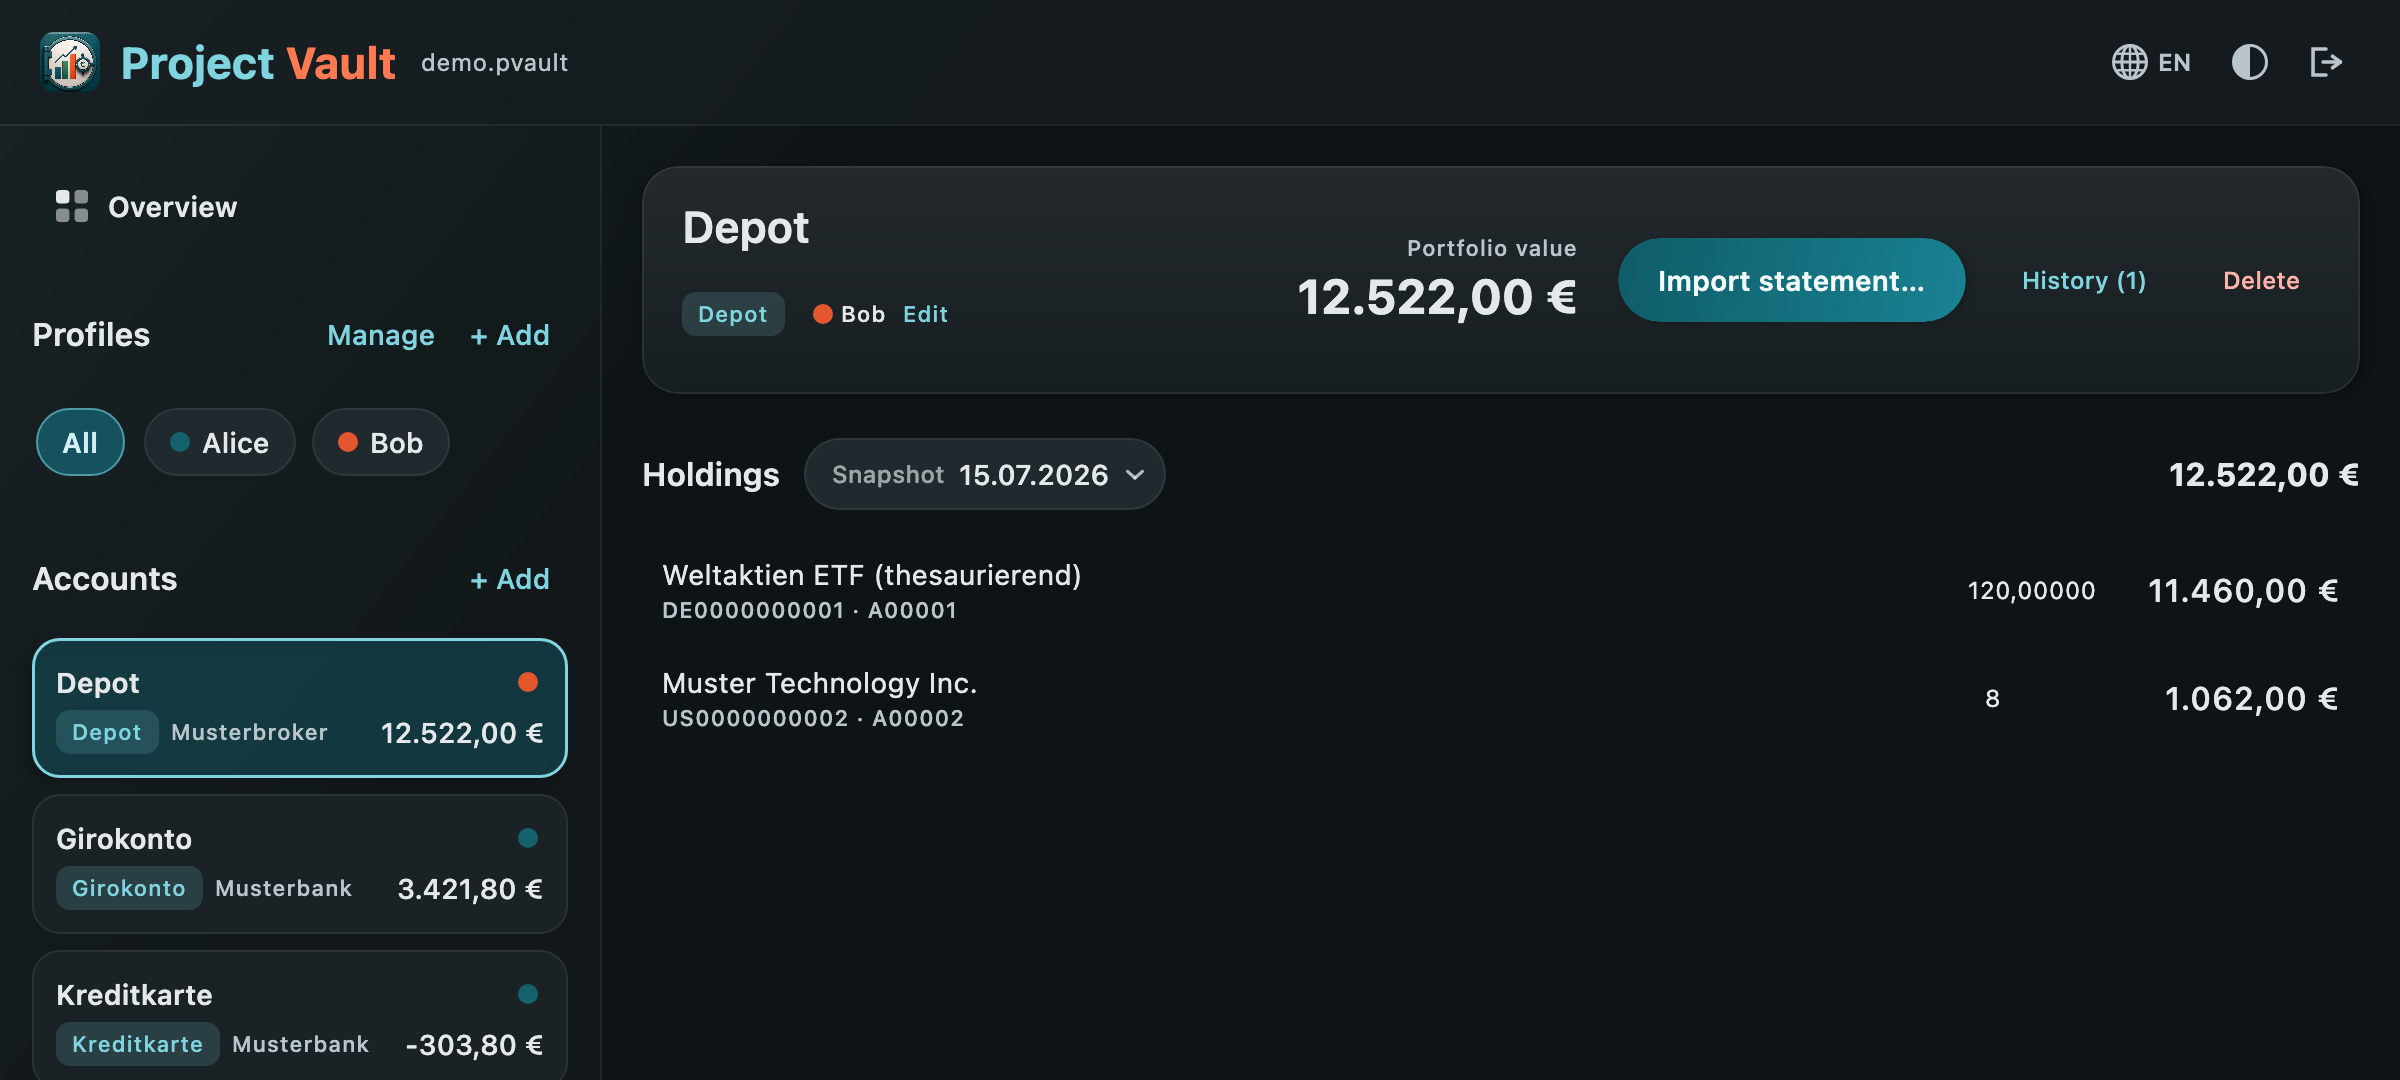
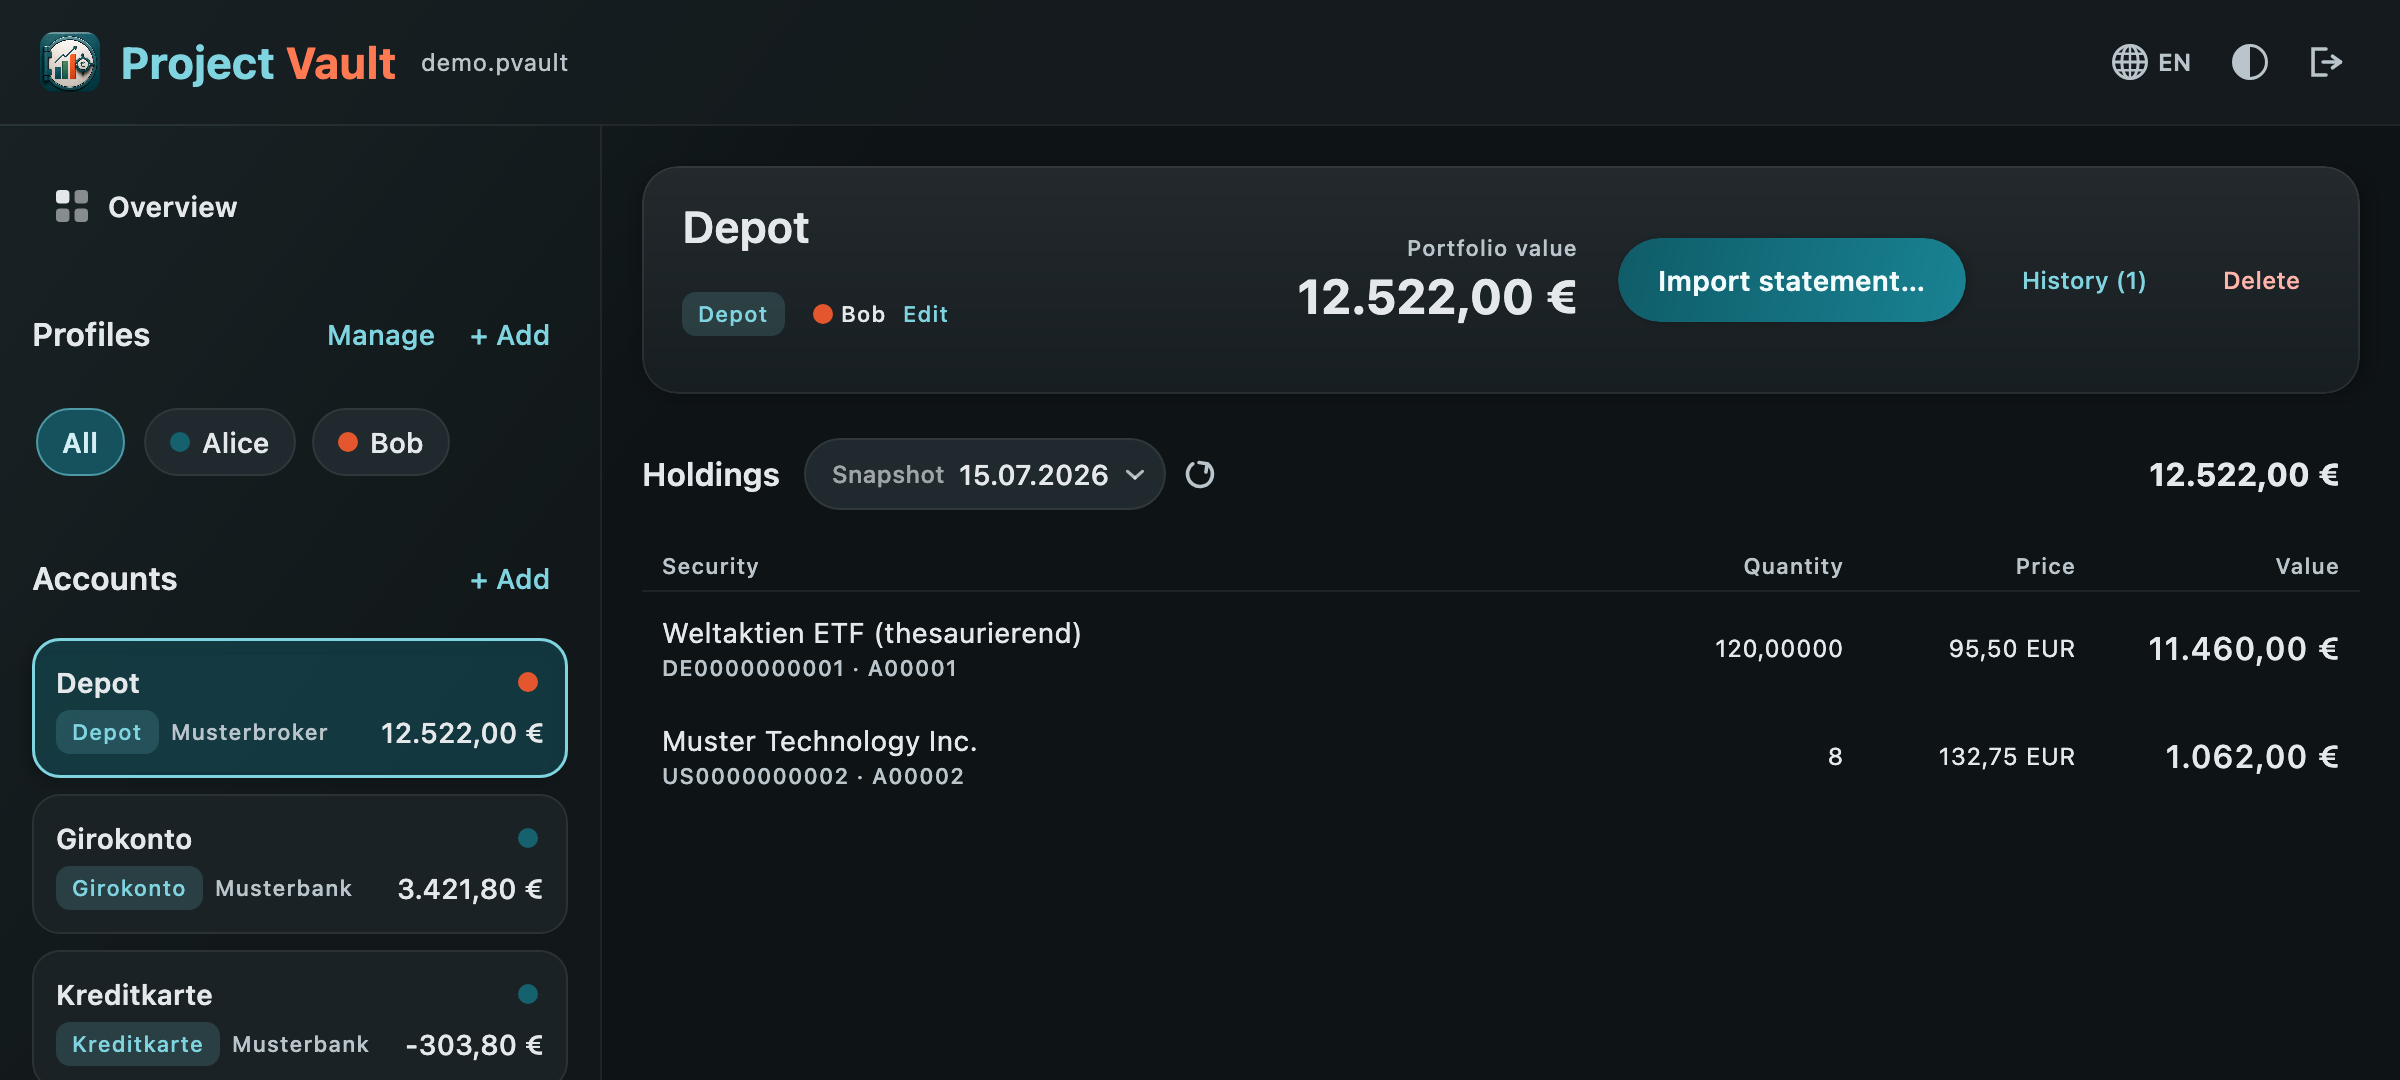
Update project vault webpage

diff --git a/_projects/project-vault.md b/_projects/project-vault.md
@@ -10,14 +10,16 @@ category: misc
 [Project Vault](https://github.com/dfuchss/project-vault) helps you understand your money — **without
 ever connecting to your bank**. You import the statements your bank already gives you, everything is
 sorted into categories **on your own machine**, and you get a clear picture of where your money goes and
-where you'll stand in a few months. Think _Finanzguru_, but nothing ever leaves your computer.
+where you'll stand in a few months. Think _Finanzguru_, but your data stays on your computer.
 
 ## Why it's different
 
 - **No bank connection.** No online banking access, no cloud account, no third party in between — just
   the PDF or CSV statements you can already download.
-- **Everything stays on your machine.** Categorization runs locally. The app makes no network calls to
-  import or analyze your data.
+- **Everything stays on your machine.** Categorization runs locally. Importing and analyzing your data
+  never touches the internet. The one thing that can — looking up current share prices — is off until
+  you switch it on, and even then only sends a security's public ID, never your holdings, amounts or
+  account details.
 - **One file you own.** Accounts, transactions, categories and everything you've taught the app live in a
   single vault file that you can back up, move to another computer, or delete.
 - **Made for households.** Several people, shared accounts, and a filter to look at just one person's
@@ -66,6 +68,17 @@ how your portfolio developed.
 
 ![Depot](/assets/projects/project-vault/depot.png){:width="100%" style="border-radius: 8px;"}
 
+If you want to know what your portfolio is worth **today** rather than on the date of your last
+statement, you can switch on live prices. Project Vault then looks up the current price of each share
+or fund at the Frankfurt Stock Exchange and recalculates what your positions are worth.
+
+This is the one feature that goes online, so it is off until you turn it on, per securities account,
+after a dialog that tells you exactly what will happen. It only sends the identifier of the security
+itself (the ISIN) — never how much you hold, what it's worth, or anything else about you. Prices are
+only fetched when you press the refresh button; nothing happens in the background. Each update is
+saved as its own dated snapshot that you can delete again, and your imported statement is never
+touched.
+
 ## Know what's coming
 
 Project Vault finds your recurring payments — salary, rent, subscriptions — and shows you what's fixed
@@ -80,5 +93,10 @@ the red.
 
 ## Privacy
 
-There is no bank connection, no sync and no cloud. Your data lives in one file on your computer, and
-that's the only place it goes.
+There is no bank connection, no sync, no cloud, no account and no tracking. Your data lives in one file
+on your computer, and that's the only place it goes.
+
+The single exception is live share prices, and you decide whether to use them. With them switched on,
+the app asks the Frankfurt Stock Exchange for the price of a security — sending only that security's
+public identifier, and only when you press refresh. Your holdings, amounts and account details stay on
+your machine either way. Leave it off and the app never goes online at all.
